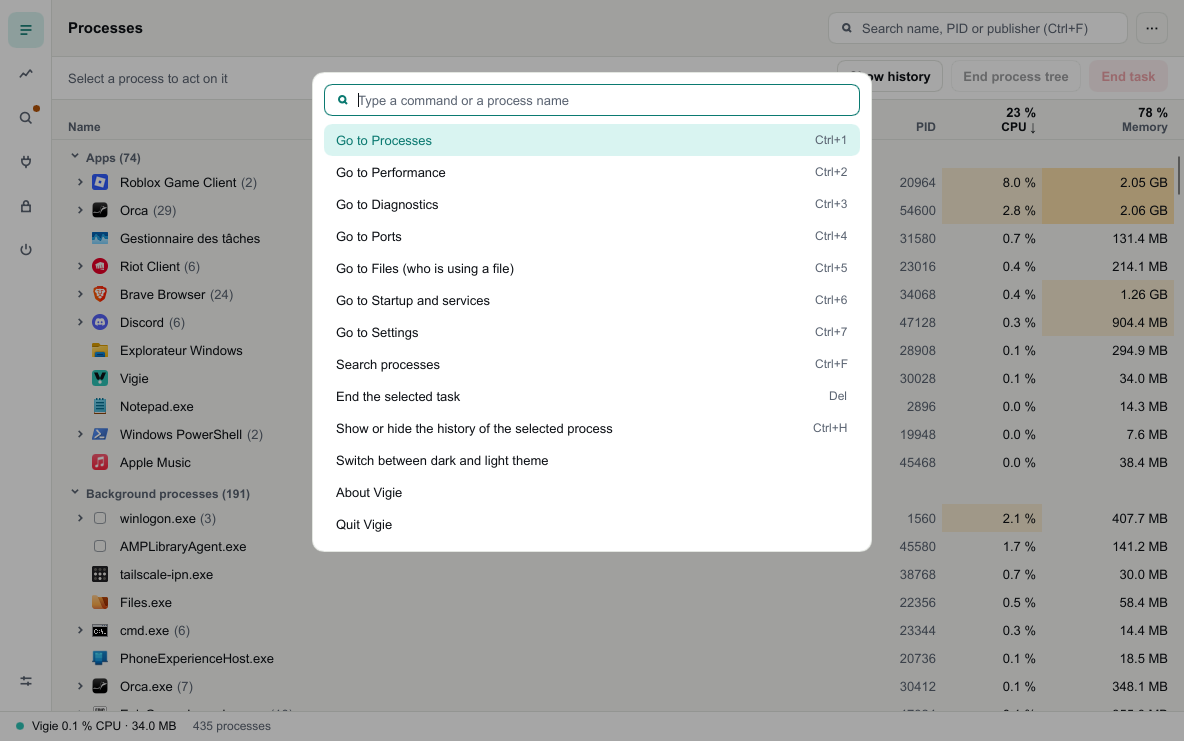
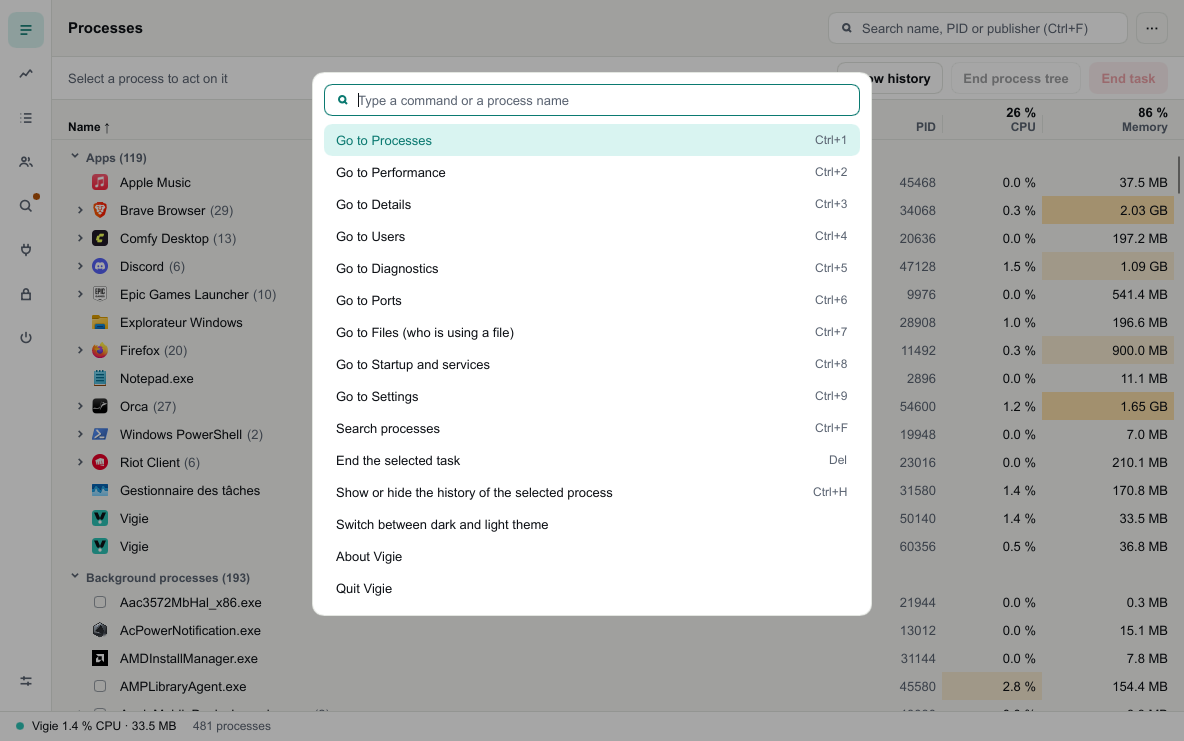
fix: the palette lists Details and Users, and graphs hide a cut 'before Vigie started' label; site: screenshots retaken with the M7 interface (equal Performance cards, new rail, centred command bar), Details, Users and right-click menus mentioned

diff --git a/site/index.html b/site/index.html
@@ -133,7 +133,7 @@
     <div class="frame row">
       <div class="text rise">
         <h2 id="clavier-titre" class="head">Ctrl+K, et le reste suit.</h2>
-        <p class="lead">Une palette de commandes, des raccourcis pour chaque vue, des listes qui se parcourent aux flèches.</p>
+        <p class="lead">Une palette de commandes, des raccourcis pour chaque vue, un menu au clic droit partout, des listes qui se parcourent aux flèches.</p>
         <p style="margin-top:22px">Programmes au démarrage, services, réglages&nbsp;: tout est à deux touches. Et si vous le voulez, Ctrl+Maj+Échap ouvre Vigie à la place du Gestionnaire des tâches, réversible à tout moment.</p>
       </div>
       <figure class="shot rise">
@@ -174,7 +174,7 @@
         <div class="tm muted" data-label="Gestionnaire des tâches" role="cell">Non affiché</div>
         <div class="vigie" data-label="Vigie" role="cell">Dans la barre d'état, en permanence</div>
       </div>
-      <p class="note rise" style="margin-top:24px">Comparé au Gestionnaire des tâches de Windows&nbsp;11. Il reste l'outil du système&nbsp;: Vigie ne le remplace que si vous le demandez.</p>
+      <p class="note rise" style="margin-top:24px">Comparé au Gestionnaire des tâches de Windows&nbsp;11. Vous y retrouvez aussi ses vues habituelles (Processus, Détails, Utilisateurs, Démarrage, Services) et les mêmes entrées au clic droit. Il reste l'outil du système&nbsp;: Vigie ne le remplace que si vous le demandez.</p>
     </div>
   </section>
 

diff --git a/site/en/index.html b/site/en/index.html
@@ -133,7 +133,7 @@
     <div class="frame row">
       <div class="text rise">
         <h2 id="keys-title" class="head">Ctrl+K, and the rest follows.</h2>
-        <p class="lead">A command palette, a shortcut for every view, lists you move through with the arrow keys.</p>
+        <p class="lead">A command palette, a shortcut for every view, a right-click menu everywhere, lists you move through with the arrow keys.</p>
         <p style="margin-top:22px">Startup apps, services, settings: everything is two keys away. And if you want, Ctrl+Shift+Esc opens Vigie instead of Task Manager, reversible at any time.</p>
       </div>
       <figure class="shot rise">
@@ -174,7 +174,7 @@
         <div class="tm muted" data-label="Task Manager" role="cell">Not shown</div>
         <div class="vigie" data-label="Vigie" role="cell">In the status bar, at all times</div>
       </div>
-      <p class="note rise" style="margin-top:24px">Compared with Windows 11 Task Manager. It stays the system's tool: Vigie replaces it only if you ask.</p>
+      <p class="note rise" style="margin-top:24px">Compared with Windows 11 Task Manager. Its usual views are there too (Processes, Details, Users, Startup, Services), with the same right-click entries. It stays the system's tool: Vigie replaces it only if you ask.</p>
     </div>
   </section>
 

diff --git a/crates/vigie-app/src/main.rs b/crates/vigie-app/src/main.rs
@@ -560,7 +560,8 @@ fn main() -> anyhow::Result<()> {
 /// Commands of the palette (`PaletteText` in `ui/app.slint`) whose titles hold every word of
 /// `query`, then, when there is a query, searching processes for it.
 fn palette_items(app: &AppWindow, query: &str) -> Vec<PaletteItem> {
-    const COMMANDS: [i32; 13] = [0, 1, 2, 3, 4, 5, 6, 10, 11, 12, 13, 14, 15];
+    // Views in rail order, then the actions.
+    const COMMANDS: [i32; 15] = [0, 1, 7, 8, 2, 3, 4, 5, 6, 10, 11, 12, 13, 14, 15];
     let text = app.global::<PaletteText>();
     let query = query.trim().to_lowercase();
     let mut items: Vec<PaletteItem> = COMMANDS
